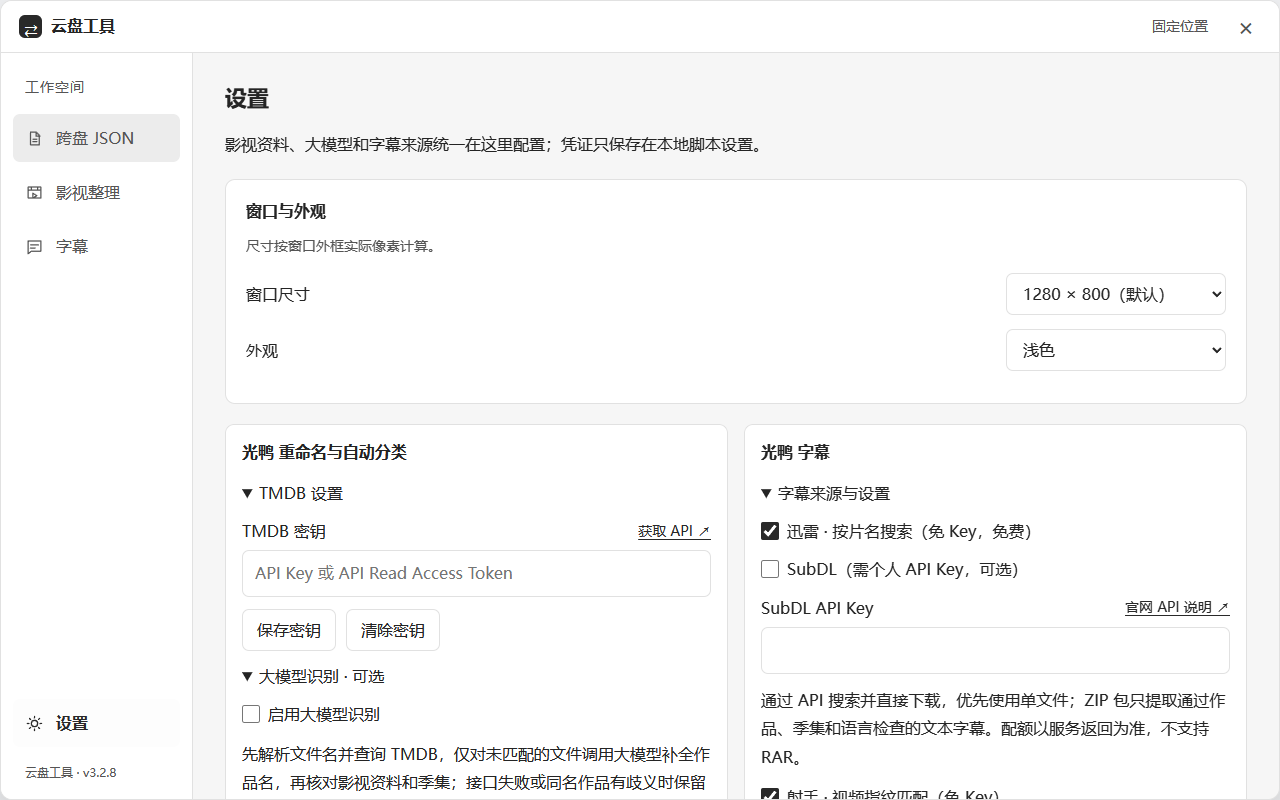
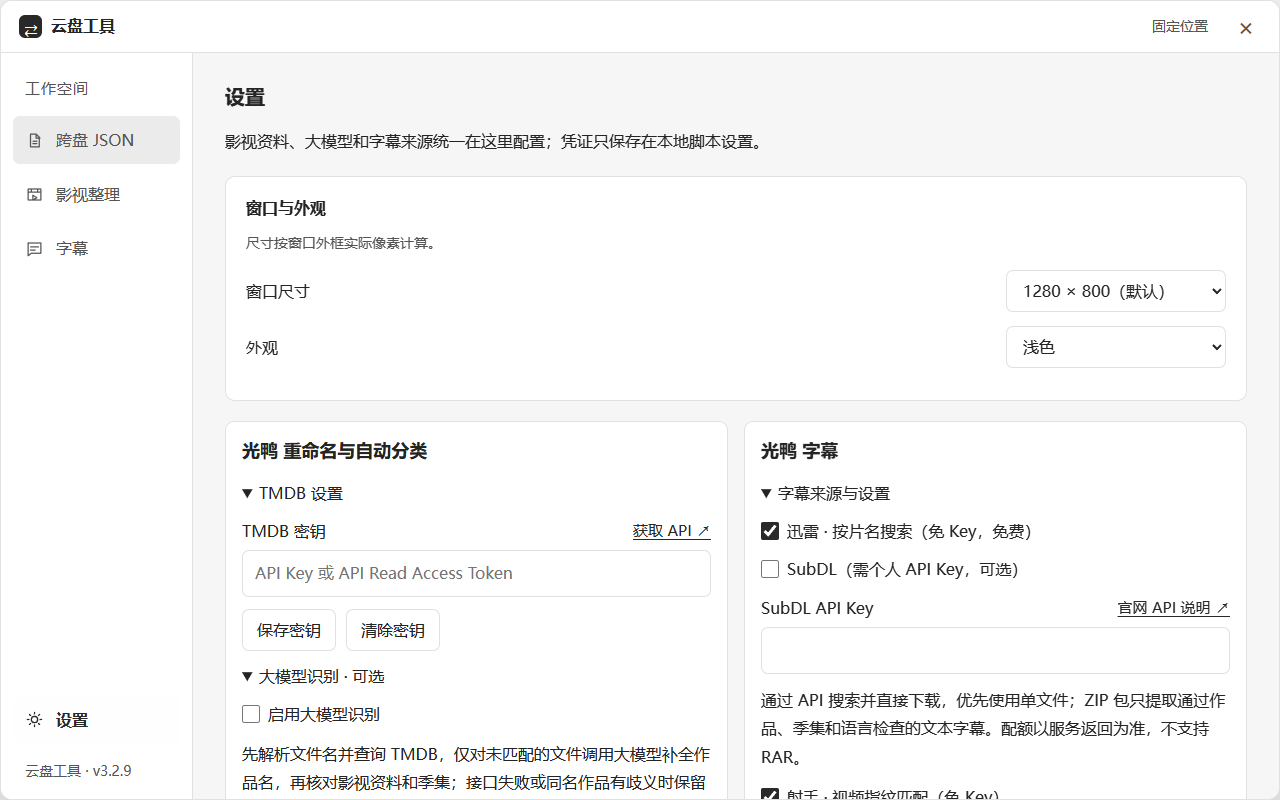
Balance workspace visual hierarchy

diff --git a/cloud-media-organizer-v3.user.js b/cloud-media-organizer-v3.user.js
@@ -1,7 +1,7 @@
 // ==UserScript==
 // @name         云盘媒体整理工具 v3.0（重构版）
 // @namespace    local.cloud-media-organizer
-// @version      3.2.8
+// @version      3.2.9
 // @description  百度/123/光鸭跨盘清单，123/光鸭影视整理、字幕搜索与核验上传
 // @match        https://pan.baidu.com/*
 // @match        https://yun.baidu.com/*
@@ -40,7 +40,7 @@
 (() => {
     'use strict';
 
-    const VERSION = '3.2.8';
+    const VERSION = '3.2.9';
     let jsonTaskStopped = false;
     const page = typeof unsafeWindow === 'undefined' ? window : unsafeWindow;
     const nativeFetch = page.fetch.bind(page);
@@ -276,7 +276,7 @@
     }
 
     function saveJsonFile(value, filename, report) {
-        try { normalizeFiles(JSON.parse(value)); }
+        try { normalizeFiles(JSONtparse(value)); }
         catch (_) { report('保存失败：文本框不是有效的跨盘 JSON 清单，请先导出文件清单'); return; }
         const url = URL.createObjectURL(new Blob([value], { type: 'application/json;charset=utf-8' }));
         report('正在保存 JSON 清单…');
@@ -426,7 +426,7 @@
 button{cursor:pointer;border:1px solid var(--border);border-radius:7px;padding:8px 14px;background:var(--surface);line-height:1.5;transition:background .15s,border-color .15s}
 button:hover:not(:disabled){background:var(--tint);border-color:var(--accent)}button:disabled{opacity:.55;cursor:not-allowed}
 button:focus-visible,input:focus-visible,select:focus-visible,textarea:focus-visible,summary:focus-visible{outline:2px solid var(--accent);outline-offset:2px}
-a{color:var(--accent);text-underline-offset:3px}h3,h4,p{overflow-wrap:anywhere}h3{margin:0 0 16px;font-size:22px;line-height:1.4}h4{margin:0;font-size:16px;font-weight:600}p{margin:10px 0;line-height:1.8}
+a{color:var(--accent);text-underline-offset:3px}h3,h4,p{overflow-wrap:anywhere}h3{margin:0 0 16px;font-size:20px;line-height:1.4}h4{margin:0;font-size:16px;font-weight:600}p{margin:10px 0;line-height:1.8}
 input,select,textarea{width:100%;border:1px solid var(--border);border-radius:7px;background:var(--field);padding:9px 12px;margin-top:6px;min-width:0}
 textarea{height:180px;resize:vertical;font:14px/1.7 Consolas,"Microsoft YaHei",monospace}label{display:block;margin:12px 0}
 label:has(>input[type=checkbox]){display:flex;align-items:flex-start;gap:8px}input[type=checkbox]{width:18px!important;height:18px;flex:0 0 auto;min-height:0;padding:0;margin:4px 0 0;accent-color:var(--accent)}
@@ -437,49 +437,48 @@ summary{cursor:pointer;overflow-wrap:anywhere}details[open]>summary{margin-botto
 .workspace-header p{display:none}.workspace-header.dragging{cursor:grabbing}.workspace-header.pinned{cursor:default}.workspace-window-actions{display:flex;align-items:center;gap:12px}
 #pinWorkspace,#closeWorkspace{background:transparent;border-color:transparent;color:var(--muted);padding:5px 10px;font-size:14px}#pinWorkspace[aria-pressed=true]{color:var(--accent);background:var(--tint)}#closeWorkspace{width:30px;height:30px;padding:0;font-size:24px;line-height:1}
 .workspace-frame{display:flex;flex:1;min-height:0;min-width:0}.workspace-navigation{width:192px;flex-shrink:0;display:flex;flex-direction:column;background:var(--surface);padding:22px 12px 16px;border-right:1px solid var(--border)}
-.nav-caption{margin:0 12px 14px;font-size:14px;color:var(--muted);letter-spacing:1px}.workspace-tabs{display:flex;flex-direction:column;gap:6px}
+.nav-caption{margin:0 12px 14px;font-size:15px;color:var(--muted);letter-spacing:1px}.workspace-tabs{display:flex;flex-direction:column;gap:6px}
 .workspace-tabs button,#settingsWorkspace{position:relative;display:flex;align-items:center;gap:12px;width:100%;padding:12px;text-align:left;border:0;background:transparent;color:var(--muted);font-size:16px;border-radius:7px}
 .workspace-tabs svg,#settingsWorkspace svg{width:19px;height:19px;flex-shrink:0;stroke-linecap:round;stroke-linejoin:round}
 .workspace-tabs button[aria-selected=true],#settingsWorkspace[aria-pressed=true]{background:var(--tint);color:var(--accent);font-weight:600}
 .workspace-tabs button[aria-selected=true]::before{content:'';position:absolute;left:0;top:14px;bottom:14px;width:3px;border-radius:3px;background:var(--accent)}
-.nav-footer{margin-top:auto}.nav-footer small{display:block;margin:16px 12px 0;font-size:12px;color:var(--muted)}
+.nav-footer{margin-top:auto}.nav-footer small{display:block;margin:16px 12px 0;font-size:14px;color:var(--muted)}
 .workspace-body{flex:1;min-width:0;min-height:0;display:flex}.tool-pane{width:100%;min-width:0;overflow:auto;overscroll-behavior:contain;padding:30px 32px 18px}
-.tool-pane[role=tabpanel]{display:flex;flex-direction:column}.tool-intro,.tool-commandbar,.tool-statusbar{flex-shrink:0}.tool-intro h3{display:flex;align-items:center;gap:12px;font-size:26px;margin:0;line-height:1.4;letter-spacing:.3px}.tool-intro p{font-size:16px;color:var(--muted);margin:8px 0 0}
-.tool-context{font-size:14px;line-height:28px;padding:0 8px;border-radius:5px;background:var(--tint);color:var(--accent);font-weight:400;letter-spacing:0}
+.tool-pane[role=tabpanel]{display:flex;flex-direction:column}.tool-intro,.tool-commandbar,.tool-statusbar{flex-shrink:0}.tool-intro h3{display:flex;align-items:center;gap:12px;font-size:21px;margin:0;line-height:1.4;letter-spacing:0}.tool-intro p{font-size:16px;color:var(--muted);margin:8px 0 0}
+.tool-context{font-size:15px;line-height:28px;padding:0 8px;border-radius:5px;background:var(--tint);color:var(--accent);font-weight:400;letter-spacing:0}
 .tool-commandbar{display:flex;align-items:center;flex-wrap:wrap;gap:12px;margin:22px 0 24px}.panel-actions{display:flex;flex-wrap:wrap;gap:10px;margin:12px 0}
 .tool-commandbar .panel-actions{margin:0;gap:10px}.tool-commandbar button{padding:9px 17px;min-height:38px}
-#generate,#exportManifest,#scanMedia,#recheckSubtitles,#fillSubtitles,#runMedia{background:var(--accent);border-color:transparent;color:var(--button-text)}
-#transfer,#start{background:var(--tint);border-color:transparent;color:var(--accent)}#chooseManifest,#chooseJsonFile{border-color:transparent;background:transparent;color:var(--muted)}
+#generate,#exportManifest,#scanMedia,#recheckSubtitles,#fillSubtitles,#runMedia,#transfer,#start,#chooseManifest,#chooseJsonFile{background:var(--surface);border:1px solid var(--border);color:var(--text);font-weight:500}
 .tool-import-options{margin-left:auto;max-width:320px;color:var(--muted);font-size:14px}.tool-import-options .export-options,.tool-import-options label{margin:0}.panel-actions:empty,.tool-import-options:not(:has(input,select,button)){display:none}
-.tool-layout{flex:1;min-width:0;min-height:auto}.tool-main{min-width:0}.tool-list-heading{display:flex;align-items:center;justify-content:space-between;gap:16px;min-height:32px;margin-bottom:12px}
+.tool-layout{flex:1;min-width:0;min-height:auto}.tool-main{min-width:0}.tool-list-heading{display:flex;align-items:center;justify-content:space-between;gap:16px;min-height:34px;margin-bottom:12px}
 .tool-list-heading label{display:flex;align-items:center;gap:8px;margin:0;font-size:14px;color:var(--muted)}.tool-list-heading select{width:auto;max-width:210px;margin:0;font-size:14px;padding:6px 10px}
-.editor-actions{display:flex;gap:8px}.editor-actions button{background:transparent;color:var(--muted);border-color:transparent;padding:4px 9px;font-size:14px;min-height:30px}
+.tool-list-heading h4{font-size:18px}.editor-actions{display:flex;gap:8px}.editor-actions button{background:var(--surface);color:var(--text);border-color:var(--border);padding:4px 9px;font-size:15px;min-height:30px}
 #jsonPane .tool-main{height:100%;display:flex;flex-direction:column;min-height:280px}#jsonPane .tool-main>:not(.json-editor){flex-shrink:0}
 .json-editor{position:relative;display:flex;flex:1;min-height:220px;border:1px solid var(--border);border-radius:10px;background:var(--surface);overflow:hidden;isolation:isolate}
 .json-editor:focus-within{border-color:var(--accent);box-shadow:0 0 0 3px var(--tint)}.json-editor>#json{width:100%;height:100%;flex:1;min-height:0;max-height:none;margin:0;border:0;border-radius:0;background:transparent;resize:none;outline:none;padding:20px;font:16px/1.8 Consolas,"Microsoft YaHei",monospace}
 .json-editor>#json::placeholder{color:transparent}.json-editor-empty{position:absolute;inset:0;display:none;flex-direction:column;align-items:center;justify-content:center;pointer-events:none;padding:24px;text-align:center;color:var(--muted)}
-.json-editor:has(#json:placeholder-shown:not(:focus))>.json-editor-empty{display:flex}.json-editor-empty svg{width:58px;height:58px;padding:10px;border-radius:14px;background:var(--tint);color:var(--accent);margin-bottom:20px}.json-editor-empty strong{color:var(--text);font-size:20px;font-weight:600}.json-editor-empty p{font-size:16px;margin:10px 0 22px}.json-editor-empty span{font-size:14px}
+.json-editor:has(#json:placeholder-shown:not(:focus))>.json-editor-empty{display:flex}.json-editor-empty svg{width:44px;height:44px;padding:8px;border-radius:12px;background:var(--tint);color:var(--muted);margin-bottom:12px}.json-editor-empty strong{color:var(--text);font-size:17px;font-weight:600}.json-editor-empty p{font-size:16px;margin:6px 0 12px}.json-editor-empty span{font-size:14px}
 #jsonPane .tool-main:has(#syncPreview:not([hidden]))>.json-editor{flex:0 0 140px;min-height:140px}#jsonPane:has(#syncPreview:not([hidden])) .tool-layout{flex:none}#jsonPane .tool-main:has(#syncPreview:not([hidden])){height:auto}
-.tool-overview{display:grid;grid-template-columns:repeat(2,minmax(0,1fr));gap:12px}.tool-overview>:not([hidden]):not(:empty){background:var(--surface);border:1px solid var(--border);border-radius:8px;padding:12px 14px;margin:0 0 16px;line-height:1.8;font-size:14px}.tool-overview:has(>:only-child)>:not(:empty){grid-column:1/-1}
-.tool-list-hint{color:var(--muted);font-size:14px;margin:0 0 14px}.tool-results{display:grid;grid-template-columns:repeat(2,minmax(0,1fr));gap:14px;align-items:start}
+.tool-overview{display:grid;grid-template-columns:repeat(2,minmax(0,1fr));gap:12px}.tool-overview>:not([hidden]):not(:empty){background:var(--surface);border:1px solid var(--border);border-radius:8px;padding:12px 14px;margin:0 0 16px;line-height:1.8;font-size:15px}.tool-overview:has(>:only-child)>:not(:empty){grid-column:1/-1}
+.tool-list-hint{color:var(--muted);font-size:15px;margin:0 0 14px}.tool-results{display:grid;grid-template-columns:repeat(2,minmax(0,1fr));gap:14px;align-items:start}
 .sync-item{background:var(--surface);border:1px solid var(--border);border-radius:9px;padding:16px;margin:12px 0;min-width:0}.tool-results>.sync-item{margin:0;font-size:16px}.tool-results>details[open]{grid-column:1/-1}.tool-results>.sync-item:hover{border-color:var(--accent)}.tool-results summary{font-size:16px;line-height:1.8}.outside-page{display:none!important}
 .sync-location{display:grid;grid-template-columns:6.5em minmax(0,1fr);gap:8px;line-height:1.7}.sync-location span:last-child{white-space:pre-wrap;overflow-wrap:anywhere}.sync-location span:first-child{color:var(--muted)}
 .sync-actions{display:flex;flex-wrap:wrap;gap:10px;margin-top:14px;padding-top:12px;border-top:1px solid var(--border)}
 .tool-pagination{display:flex;align-items:center;justify-content:center;gap:16px;margin:18px 0 0;font-size:14px;color:var(--muted)}.tool-pagination button{padding:5px 10px;font-size:14px}
-#subtitleEmpty,.media-empty{padding:64px 24px;margin:0;text-align:center;border:1px dashed var(--border);border-radius:10px;color:var(--muted);background:var(--surface)}
+#subtitleEmpty,.media-empty{padding:36px 24px;margin:0;text-align:center;border:1px dashed var(--border);border-radius:10px;color:var(--muted);background:var(--surface)}
 .tool-main:has(#mediaRows:not(:empty))>.media-empty,.tool-main:has(#mediaPreview:not(:empty))>.media-empty{display:none}.tool-preview{margin-top:14px}.tool-preview:not(:has(#mediaPreview:not(:empty))){display:none}
 #mediaPreview:not(:empty),#emptyPreview:not(:empty){max-height:none!important;overflow:visible!important;padding:12px 0;margin:12px 0;font-size:14px}
-.tool-statusbar{display:flex;align-items:flex-start;gap:20px;flex-wrap:wrap;margin-top:20px;padding-top:12px;border-top:1px solid var(--border);font-size:14px;color:var(--muted)}
-.tool-status-text{flex:1;min-width:180px}.tool-status-text p{margin:0;line-height:1.9;font-size:14px}.tool-status-text p:empty{display:none}.tool-status-text progress{accent-color:var(--accent);height:6px!important;margin:6px 0!important}.tool-status-text label{margin:0;font-size:14px}.tool-status-text #mediaMeter{margin:0}
-.tool-utilities{display:flex;align-items:flex-start;gap:16px;flex-wrap:wrap;margin-left:auto}.tool-utilities>.tool-card{padding:0;border:0;background:transparent;margin:0}.tool-utilities summary{padding:2px 0;font-size:14px;font-weight:500;color:var(--muted)}
+.tool-statusbar{display:flex;align-items:flex-start;gap:20px;flex-wrap:wrap;margin-top:20px;padding-top:12px;border-top:1px solid var(--border);font-size:15px;color:var(--muted)}
+.tool-status-text{flex:1;min-width:180px}.tool-status-text p{margin:0;line-height:1.9;font-size:15px}.tool-status-text p:empty{display:none}.tool-status-text progress{accent-color:var(--accent);height:6px!important;margin:6px 0!important}.tool-status-text label{margin:0;font-size:15px}.tool-status-text #mediaMeter{margin:0}
+.tool-utilities{display:flex;align-items:flex-start;gap:16px;flex-wrap:wrap;margin-left:auto}.tool-utilities>.tool-card{padding:0;border:0;background:transparent;margin:0}.tool-utilities summary{padding:2px 0;font-size:15px;font-weight:500;color:var(--muted)}
 .tool-statusbar:has(.tool-utilities>details[open]){display:block}.tool-utilities:has(>details[open]){display:grid;grid-template-columns:repeat(3,minmax(0,1fr));margin-top:10px}.tool-utilities>details[open]{grid-column:1/-1;color:var(--text);min-width:0}
 #log{white-space:pre-wrap;overflow-wrap:anywhere;font:14px/1.7 Consolas,"Microsoft YaHei",monospace;max-height:180px;overflow:auto}#log:empty{display:none}#log>div+div{margin-top:6px}#subtitleLog{height:180px;min-height:100px;max-height:300px}
-.sync-preview{background:var(--surface);border:1px solid var(--border);border-radius:8px;padding:14px;margin-bottom:14px}.sync-preview h4{margin:0 0 8px}.sync-preview p{margin:6px 0}#syncList{overflow-wrap:anywhere;font-size:14px}#syncDestination{font-weight:600}
-.export-options{display:flex;flex-wrap:wrap;gap:12px;align-items:center;margin:12px 0}.export-options input{width:auto}.export-options button{font-size:14px;padding:7px 12px}.credential-head{display:flex;justify-content:space-between;align-items:center;gap:12px}.credential-head a{font-size:14px;flex-shrink:0}
-.source-result{margin:12px 0;padding:12px;border:1px solid var(--border);border-radius:8px}.source-result button{margin:8px 8px 0 0;font-size:14px}
+.sync-preview{background:var(--surface);border:1px solid var(--border);border-radius:8px;padding:14px;margin-bottom:14px}.sync-preview h4{margin:0 0 8px}.sync-preview p{margin:6px 0}#syncList{overflow-wrap:anywhere;font-size:15px}#syncDestination{font-weight:600}
+.export-options{display:flex;flex-wrap:wrap;gap:12px;align-items:center;margin:12px 0}.export-options input{width:auto}.export-options button{font-size:14px;padding:7px 12px}.credential-head{display:flex;justify-content:space-between;align-items:center;gap:12px}.credential-head a{font-size:15px;flex-shrink:0}
+.source-result{margin:12px 0;padding:12px;border:1px solid var(--border);border-radius:8px}.source-result button{margin:8px 8px 0 0;font-size:16px}
 .workspace-appearance{background:var(--surface);border:1px solid var(--border);border-radius:10px;padding:18px 20px;margin:20px 0}.workspace-appearance>p{color:var(--muted);font-size:14px}
 .theme-row{display:flex;align-items:center;justify-content:space-between;gap:16px;margin:14px 0}.theme-row select{width:220px;margin:0}
-#settingsSections{display:grid;grid-template-columns:repeat(2,minmax(0,1fr));gap:16px;align-items:start}#settingsSections>.sync-item{margin:0}#settingsSections h3{font-size:16px}#backToTools{margin-top:18px}
+#settingsSections{display:grid;grid-template-columns:repeat(2,minmax(0,1fr));gap:16px;align-items:start}#settingsSections>.sync-item{margin:0}#settingsSections legend{font-size:18px;font-weight:600}#settingsSections h3{font-size:18px;font-weight:600}#backToTools{margin-top:18px}
 #toggle{display:grid;place-items:center;width:50px;height:50px;padding:0;border-radius:15px;background:var(--surface);box-shadow:0 5px 20px #0003}#toggle svg{width:24px;height:24px;pointer-events:none}
 @container(max-width:1050px){.workspace-navigation{width:152px;padding:16px 9px}.tool-pane{padding:20px 20px 14px}.tool-intro h3{font-size:20px}.tool-intro p{font-size:14px}.tool-commandbar{margin:16px 0 18px;gap:8px}.tool-commandbar button{padding:8px 12px;font-size:14px}.tool-commandbar .panel-actions{gap:6px}.tool-import-options{max-width:240px;font-size:14px}.tool-statusbar{gap:12px;margin-top:14px}.tool-utilities{gap:10px}.tool-overview>:not([hidden]):not(:empty){margin-bottom:10px;padding:10px}.json-editor{min-height:160px}#jsonPane .tool-main{min-height:220px}.json-editor-empty svg{width:44px;height:44px;margin-bottom:10px}.json-editor-empty p{margin:6px 0 12px}.tool-results{gap:10px}.tool-results>.sync-item{padding:12px}}
 @container(max-width:760px){.workspace-frame{flex-direction:column}.workspace-navigation{width:auto;padding:8px 12px;border-right:0;border-bottom:1px solid var(--border);flex-direction:row;align-items:center;gap:8px}.nav-caption,.nav-footer small{display:none}.workspace-tabs{flex-direction:row;flex:1;gap:4px}.workspace-tabs button{justify-content:center;gap:5px;padding:8px 6px;font-size:14px}.workspace-tabs button svg{display:none}.workspace-tabs button[aria-selected=true]::before{display:none}.nav-footer{margin:0}#settingsWorkspace{width:auto;font-size:14px;gap:5px;padding:8px}.workspace-body{min-height:0}.tool-pane{padding:18px 14px}.tool-results,.tool-overview,#settingsSections{grid-template-columns:minmax(0,1fr)}.tool-intro h3{font-size:18px;flex-wrap:wrap}.tool-list-heading{flex-wrap:wrap;gap:8px}.tool-import-options{margin:0;max-width:none}.tool-statusbar{display:block}.tool-utilities{margin-top:10px}.theme-row{flex-wrap:wrap}.theme-row select{max-width:100%}.sync-location{grid-template-columns:1fr;gap:2px}.json-editor-empty{padding:12px}.json-editor-empty strong{font-size:15px}.json-editor-empty p{font-size:14px}#subtitleEmpty,.media-empty{padding:36px 16px}.tool-utilities:has(>details[open]){grid-template-columns:1fr}}

diff --git a/src/panel.js b/src/panel.js
@@ -1,5 +1,5 @@
     function saveJsonFile(value, filename, report) {
-        try { normalizeFiles(JSON.parse(value)); }
+        try { normalizeFiles(JSONtparse(value)); }
         catch (_) { report('保存失败：文本框不是有效的跨盘 JSON 清单，请先导出文件清单'); return; }
         const url = URL.createObjectURL(new Blob([value], { type: 'application/json;charset=utf-8' }));
         report('正在保存 JSON 清单…');
@@ -149,7 +149,7 @@
 button{cursor:pointer;border:1px solid var(--border);border-radius:7px;padding:8px 14px;background:var(--surface);line-height:1.5;transition:background .15s,border-color .15s}
 button:hover:not(:disabled){background:var(--tint);border-color:var(--accent)}button:disabled{opacity:.55;cursor:not-allowed}
 button:focus-visible,input:focus-visible,select:focus-visible,textarea:focus-visible,summary:focus-visible{outline:2px solid var(--accent);outline-offset:2px}
-a{color:var(--accent);text-underline-offset:3px}h3,h4,p{overflow-wrap:anywhere}h3{margin:0 0 16px;font-size:22px;line-height:1.4}h4{margin:0;font-size:16px;font-weight:600}p{margin:10px 0;line-height:1.8}
+a{color:var(--accent);text-underline-offset:3px}h3,h4,p{overflow-wrap:anywhere}h3{margin:0 0 16px;font-size:20px;line-height:1.4}h4{margin:0;font-size:16px;font-weight:600}p{margin:10px 0;line-height:1.8}
 input,select,textarea{width:100%;border:1px solid var(--border);border-radius:7px;background:var(--field);padding:9px 12px;margin-top:6px;min-width:0}
 textarea{height:180px;resize:vertical;font:14px/1.7 Consolas,"Microsoft YaHei",monospace}label{display:block;margin:12px 0}
 label:has(>input[type=checkbox]){display:flex;align-items:flex-start;gap:8px}input[type=checkbox]{width:18px!important;height:18px;flex:0 0 auto;min-height:0;padding:0;margin:4px 0 0;accent-color:var(--accent)}
@@ -160,49 +160,48 @@ summary{cursor:pointer;overflow-wrap:anywhere}details[open]>summary{margin-botto
 .workspace-header p{display:none}.workspace-header.dragging{cursor:grabbing}.workspace-header.pinned{cursor:default}.workspace-window-actions{display:flex;align-items:center;gap:12px}
 #pinWorkspace,#closeWorkspace{background:transparent;border-color:transparent;color:var(--muted);padding:5px 10px;font-size:14px}#pinWorkspace[aria-pressed=true]{color:var(--accent);background:var(--tint)}#closeWorkspace{width:30px;height:30px;padding:0;font-size:24px;line-height:1}
 .workspace-frame{display:flex;flex:1;min-height:0;min-width:0}.workspace-navigation{width:192px;flex-shrink:0;display:flex;flex-direction:column;background:var(--surface);padding:22px 12px 16px;border-right:1px solid var(--border)}
-.nav-caption{margin:0 12px 14px;font-size:14px;color:var(--muted);letter-spacing:1px}.workspace-tabs{display:flex;flex-direction:column;gap:6px}
+.nav-caption{margin:0 12px 14px;font-size:15px;color:var(--muted);letter-spacing:1px}.workspace-tabs{display:flex;flex-direction:column;gap:6px}
 .workspace-tabs button,#settingsWorkspace{position:relative;display:flex;align-items:center;gap:12px;width:100%;padding:12px;text-align:left;border:0;background:transparent;color:var(--muted);font-size:16px;border-radius:7px}
 .workspace-tabs svg,#settingsWorkspace svg{width:19px;height:19px;flex-shrink:0;stroke-linecap:round;stroke-linejoin:round}
 .workspace-tabs button[aria-selected=true],#settingsWorkspace[aria-pressed=true]{background:var(--tint);color:var(--accent);font-weight:600}
 .workspace-tabs button[aria-selected=true]::before{content:'';position:absolute;left:0;top:14px;bottom:14px;width:3px;border-radius:3px;background:var(--accent)}
-.nav-footer{margin-top:auto}.nav-footer small{display:block;margin:16px 12px 0;font-size:12px;color:var(--muted)}
+.nav-footer{margin-top:auto}.nav-footer small{display:block;margin:16px 12px 0;font-size:14px;color:var(--muted)}
 .workspace-body{flex:1;min-width:0;min-height:0;display:flex}.tool-pane{width:100%;min-width:0;overflow:auto;overscroll-behavior:contain;padding:30px 32px 18px}
-.tool-pane[role=tabpanel]{display:flex;flex-direction:column}.tool-intro,.tool-commandbar,.tool-statusbar{flex-shrink:0}.tool-intro h3{display:flex;align-items:center;gap:12px;font-size:26px;margin:0;line-height:1.4;letter-spacing:.3px}.tool-intro p{font-size:16px;color:var(--muted);margin:8px 0 0}
-.tool-context{font-size:14px;line-height:28px;padding:0 8px;border-radius:5px;background:var(--tint);color:var(--accent);font-weight:400;letter-spacing:0}
+.tool-pane[role=tabpanel]{display:flex;flex-direction:column}.tool-intro,.tool-commandbar,.tool-statusbar{flex-shrink:0}.tool-intro h3{display:flex;align-items:center;gap:12px;font-size:21px;margin:0;line-height:1.4;letter-spacing:0}.tool-intro p{font-size:16px;color:var(--muted);margin:8px 0 0}
+.tool-context{font-size:15px;line-height:28px;padding:0 8px;border-radius:5px;background:var(--tint);color:var(--accent);font-weight:400;letter-spacing:0}
 .tool-commandbar{display:flex;align-items:center;flex-wrap:wrap;gap:12px;margin:22px 0 24px}.panel-actions{display:flex;flex-wrap:wrap;gap:10px;margin:12px 0}
 .tool-commandbar .panel-actions{margin:0;gap:10px}.tool-commandbar button{padding:9px 17px;min-height:38px}
-#generate,#exportManifest,#scanMedia,#recheckSubtitles,#fillSubtitles,#runMedia{background:var(--accent);border-color:transparent;color:var(--button-text)}
-#transfer,#start{background:var(--tint);border-color:transparent;color:var(--accent)}#chooseManifest,#chooseJsonFile{border-color:transparent;background:transparent;color:var(--muted)}
+#generate,#exportManifest,#scanMedia,#recheckSubtitles,#fillSubtitles,#runMedia,#transfer,#start,#chooseManifest,#chooseJsonFile{background:var(--surface);border:1px solid var(--border);color:var(--text);font-weight:500}
 .tool-import-options{margin-left:auto;max-width:320px;color:var(--muted);font-size:14px}.tool-import-options .export-options,.tool-import-options label{margin:0}.panel-actions:empty,.tool-import-options:not(:has(input,select,button)){display:none}
-.tool-layout{flex:1;min-width:0;min-height:auto}.tool-main{min-width:0}.tool-list-heading{display:flex;align-items:center;justify-content:space-between;gap:16px;min-height:32px;margin-bottom:12px}
+.tool-layout{flex:1;min-width:0;min-height:auto}.tool-main{min-width:0}.tool-list-heading{display:flex;align-items:center;justify-content:space-between;gap:16px;min-height:34px;margin-bottom:12px}
 .tool-list-heading label{display:flex;align-items:center;gap:8px;margin:0;font-size:14px;color:var(--muted)}.tool-list-heading select{width:auto;max-width:210px;margin:0;font-size:14px;padding:6px 10px}
-.editor-actions{display:flex;gap:8px}.editor-actions button{background:transparent;color:var(--muted);border-color:transparent;padding:4px 9px;font-size:14px;min-height:30px}
+.tool-list-heading h4{font-size:18px}.editor-actions{display:flex;gap:8px}.editor-actions button{background:var(--surface);color:var(--text);border-color:var(--border);padding:4px 9px;font-size:15px;min-height:30px}
 #jsonPane .tool-main{height:100%;display:flex;flex-direction:column;min-height:280px}#jsonPane .tool-main>:not(.json-editor){flex-shrink:0}
 .json-editor{position:relative;display:flex;flex:1;min-height:220px;border:1px solid var(--border);border-radius:10px;background:var(--surface);overflow:hidden;isolation:isolate}
 .json-editor:focus-within{border-color:var(--accent);box-shadow:0 0 0 3px var(--tint)}.json-editor>#json{width:100%;height:100%;flex:1;min-height:0;max-height:none;margin:0;border:0;border-radius:0;background:transparent;resize:none;outline:none;padding:20px;font:16px/1.8 Consolas,"Microsoft YaHei",monospace}
 .json-editor>#json::placeholder{color:transparent}.json-editor-empty{position:absolute;inset:0;display:none;flex-direction:column;align-items:center;justify-content:center;pointer-events:none;padding:24px;text-align:center;color:var(--muted)}
-.json-editor:has(#json:placeholder-shown:not(:focus))>.json-editor-empty{display:flex}.json-editor-empty svg{width:58px;height:58px;padding:10px;border-radius:14px;background:var(--tint);color:var(--accent);margin-bottom:20px}.json-editor-empty strong{color:var(--text);font-size:20px;font-weight:600}.json-editor-empty p{font-size:16px;margin:10px 0 22px}.json-editor-empty span{font-size:14px}
+.json-editor:has(#json:placeholder-shown:not(:focus))>.json-editor-empty{display:flex}.json-editor-empty svg{width:44px;height:44px;padding:8px;border-radius:12px;background:var(--tint);color:var(--muted);margin-bottom:12px}.json-editor-empty strong{color:var(--text);font-size:17px;font-weight:600}.json-editor-empty p{font-size:16px;margin:6px 0 12px}.json-editor-empty span{font-size:14px}
 #jsonPane .tool-main:has(#syncPreview:not([hidden]))>.json-editor{flex:0 0 140px;min-height:140px}#jsonPane:has(#syncPreview:not([hidden])) .tool-layout{flex:none}#jsonPane .tool-main:has(#syncPreview:not([hidden])){height:auto}
-.tool-overview{display:grid;grid-template-columns:repeat(2,minmax(0,1fr));gap:12px}.tool-overview>:not([hidden]):not(:empty){background:var(--surface);border:1px solid var(--border);border-radius:8px;padding:12px 14px;margin:0 0 16px;line-height:1.8;font-size:14px}.tool-overview:has(>:only-child)>:not(:empty){grid-column:1/-1}
-.tool-list-hint{color:var(--muted);font-size:14px;margin:0 0 14px}.tool-results{display:grid;grid-template-columns:repeat(2,minmax(0,1fr));gap:14px;align-items:start}
+.tool-overview{display:grid;grid-template-columns:repeat(2,minmax(0,1fr));gap:12px}.tool-overview>:not([hidden]):not(:empty){background:var(--surface);border:1px solid var(--border);border-radius:8px;padding:12px 14px;margin:0 0 16px;line-height:1.8;font-size:15px}.tool-overview:has(>:only-child)>:not(:empty){grid-column:1/-1}
+.tool-list-hint{color:var(--muted);font-size:15px;margin:0 0 14px}.tool-results{display:grid;grid-template-columns:repeat(2,minmax(0,1fr));gap:14px;align-items:start}
 .sync-item{background:var(--surface);border:1px solid var(--border);border-radius:9px;padding:16px;margin:12px 0;min-width:0}.tool-results>.sync-item{margin:0;font-size:16px}.tool-results>details[open]{grid-column:1/-1}.tool-results>.sync-item:hover{border-color:var(--accent)}.tool-results summary{font-size:16px;line-height:1.8}.outside-page{display:none!important}
 .sync-location{display:grid;grid-template-columns:6.5em minmax(0,1fr);gap:8px;line-height:1.7}.sync-location span:last-child{white-space:pre-wrap;overflow-wrap:anywhere}.sync-location span:first-child{color:var(--muted)}
 .sync-actions{display:flex;flex-wrap:wrap;gap:10px;margin-top:14px;padding-top:12px;border-top:1px solid var(--border)}
 .tool-pagination{display:flex;align-items:center;justify-content:center;gap:16px;margin:18px 0 0;font-size:14px;color:var(--muted)}.tool-pagination button{padding:5px 10px;font-size:14px}
-#subtitleEmpty,.media-empty{padding:64px 24px;margin:0;text-align:center;border:1px dashed var(--border);border-radius:10px;color:var(--muted);background:var(--surface)}
+#subtitleEmpty,.media-empty{padding:36px 24px;margin:0;text-align:center;border:1px dashed var(--border);border-radius:10px;color:var(--muted);background:var(--surface)}
 .tool-main:has(#mediaRows:not(:empty))>.media-empty,.tool-main:has(#mediaPreview:not(:empty))>.media-empty{display:none}.tool-preview{margin-top:14px}.tool-preview:not(:has(#mediaPreview:not(:empty))){display:none}
 #mediaPreview:not(:empty),#emptyPreview:not(:empty){max-height:none!important;overflow:visible!important;padding:12px 0;margin:12px 0;font-size:14px}
-.tool-statusbar{display:flex;align-items:flex-start;gap:20px;flex-wrap:wrap;margin-top:20px;padding-top:12px;border-top:1px solid var(--border);font-size:14px;color:var(--muted)}
-.tool-status-text{flex:1;min-width:180px}.tool-status-text p{margin:0;line-height:1.9;font-size:14px}.tool-status-text p:empty{display:none}.tool-status-text progress{accent-color:var(--accent);height:6px!important;margin:6px 0!important}.tool-status-text label{margin:0;font-size:14px}.tool-status-text #mediaMeter{margin:0}
-.tool-utilities{display:flex;align-items:flex-start;gap:16px;flex-wrap:wrap;margin-left:auto}.tool-utilities>.tool-card{padding:0;border:0;background:transparent;margin:0}.tool-utilities summary{padding:2px 0;font-size:14px;font-weight:500;color:var(--muted)}
+.tool-statusbar{display:flex;align-items:flex-start;gap:20px;flex-wrap:wrap;margin-top:20px;padding-top:12px;border-top:1px solid var(--border);font-size:15px;color:var(--muted)}
+.tool-status-text{flex:1;min-width:180px}.tool-status-text p{margin:0;line-height:1.9;font-size:15px}.tool-status-text p:empty{display:none}.tool-status-text progress{accent-color:var(--accent);height:6px!important;margin:6px 0!important}.tool-status-text label{margin:0;font-size:15px}.tool-status-text #mediaMeter{margin:0}
+.tool-utilities{display:flex;align-items:flex-start;gap:16px;flex-wrap:wrap;margin-left:auto}.tool-utilities>.tool-card{padding:0;border:0;background:transparent;margin:0}.tool-utilities summary{padding:2px 0;font-size:15px;font-weight:500;color:var(--muted)}
 .tool-statusbar:has(.tool-utilities>details[open]){display:block}.tool-utilities:has(>details[open]){display:grid;grid-template-columns:repeat(3,minmax(0,1fr));margin-top:10px}.tool-utilities>details[open]{grid-column:1/-1;color:var(--text);min-width:0}
 #log{white-space:pre-wrap;overflow-wrap:anywhere;font:14px/1.7 Consolas,"Microsoft YaHei",monospace;max-height:180px;overflow:auto}#log:empty{display:none}#log>div+div{margin-top:6px}#subtitleLog{height:180px;min-height:100px;max-height:300px}
-.sync-preview{background:var(--surface);border:1px solid var(--border);border-radius:8px;padding:14px;margin-bottom:14px}.sync-preview h4{margin:0 0 8px}.sync-preview p{margin:6px 0}#syncList{overflow-wrap:anywhere;font-size:14px}#syncDestination{font-weight:600}
-.export-options{display:flex;flex-wrap:wrap;gap:12px;align-items:center;margin:12px 0}.export-options input{width:auto}.export-options button{font-size:14px;padding:7px 12px}.credential-head{display:flex;justify-content:space-between;align-items:center;gap:12px}.credential-head a{font-size:14px;flex-shrink:0}
-.source-result{margin:12px 0;padding:12px;border:1px solid var(--border);border-radius:8px}.source-result button{margin:8px 8px 0 0;font-size:14px}
+.sync-preview{background:var(--surface);border:1px solid var(--border);border-radius:8px;padding:14px;margin-bottom:14px}.sync-preview h4{margin:0 0 8px}.sync-preview p{margin:6px 0}#syncList{overflow-wrap:anywhere;font-size:15px}#syncDestination{font-weight:600}
+.export-options{display:flex;flex-wrap:wrap;gap:12px;align-items:center;margin:12px 0}.export-options input{width:auto}.export-options button{font-size:14px;padding:7px 12px}.credential-head{display:flex;justify-content:space-between;align-items:center;gap:12px}.credential-head a{font-size:15px;flex-shrink:0}
+.source-result{margin:12px 0;padding:12px;border:1px solid var(--border);border-radius:8px}.source-result button{margin:8px 8px 0 0;font-size:16px}
 .workspace-appearance{background:var(--surface);border:1px solid var(--border);border-radius:10px;padding:18px 20px;margin:20px 0}.workspace-appearance>p{color:var(--muted);font-size:14px}
 .theme-row{display:flex;align-items:center;justify-content:space-between;gap:16px;margin:14px 0}.theme-row select{width:220px;margin:0}
-#settingsSections{display:grid;grid-template-columns:repeat(2,minmax(0,1fr));gap:16px;align-items:start}#settingsSections>.sync-item{margin:0}#settingsSections h3{font-size:16px}#backToTools{margin-top:18px}
+#settingsSections{display:grid;grid-template-columns:repeat(2,minmax(0,1fr));gap:16px;align-items:start}#settingsSections>.sync-item{margin:0}#settingsSections legend{font-size:18px;font-weight:600}#settingsSections h3{font-size:18px;font-weight:600}#backToTools{margin-top:18px}
 #toggle{display:grid;place-items:center;width:50px;height:50px;padding:0;border-radius:15px;background:var(--surface);box-shadow:0 5px 20px #0003}#toggle svg{width:24px;height:24px;pointer-events:none}
 @container(max-width:1050px){.workspace-navigation{width:152px;padding:16px 9px}.tool-pane{padding:20px 20px 14px}.tool-intro h3{font-size:20px}.tool-intro p{font-size:14px}.tool-commandbar{margin:16px 0 18px;gap:8px}.tool-commandbar button{padding:8px 12px;font-size:14px}.tool-commandbar .panel-actions{gap:6px}.tool-import-options{max-width:240px;font-size:14px}.tool-statusbar{gap:12px;margin-top:14px}.tool-utilities{gap:10px}.tool-overview>:not([hidden]):not(:empty){margin-bottom:10px;padding:10px}.json-editor{min-height:160px}#jsonPane .tool-main{min-height:220px}.json-editor-empty svg{width:44px;height:44px;margin-bottom:10px}.json-editor-empty p{margin:6px 0 12px}.tool-results{gap:10px}.tool-results>.sync-item{padding:12px}}
 @container(max-width:760px){.workspace-frame{flex-direction:column}.workspace-navigation{width:auto;padding:8px 12px;border-right:0;border-bottom:1px solid var(--border);flex-direction:row;align-items:center;gap:8px}.nav-caption,.nav-footer small{display:none}.workspace-tabs{flex-direction:row;flex:1;gap:4px}.workspace-tabs button{justify-content:center;gap:5px;padding:8px 6px;font-size:14px}.workspace-tabs button svg{display:none}.workspace-tabs button[aria-selected=true]::before{display:none}.nav-footer{margin:0}#settingsWorkspace{width:auto;font-size:14px;gap:5px;padding:8px}.workspace-body{min-height:0}.tool-pane{padding:18px 14px}.tool-results,.tool-overview,#settingsSections{grid-template-columns:minmax(0,1fr)}.tool-intro h3{font-size:18px;flex-wrap:wrap}.tool-list-heading{flex-wrap:wrap;gap:8px}.tool-import-options{margin:0;max-width:none}.tool-statusbar{display:block}.tool-utilities{margin-top:10px}.theme-row{flex-wrap:wrap}.theme-row select{max-width:100%}.sync-location{grid-template-columns:1fr;gap:2px}.json-editor-empty{padding:12px}.json-editor-empty strong{font-size:15px}.json-editor-empty p{font-size:14px}#subtitleEmpty,.media-empty{padding:36px 16px}.tool-utilities:has(>details[open]){grid-template-columns:1fr}}

diff --git a/src/core.js b/src/core.js
@@ -1,4 +1,4 @@
-    const VERSION = '3.2.8';
+    const VERSION = '3.2.9';
     let jsonTaskStopped = false;
     const page = typeof unsafeWindow === 'undefined' ? window : unsafeWindow;
     const nativeFetch = page.fetch.bind(page);

diff --git a/README.md b/README.md
@@ -1,6 +1,6 @@
 # 云盘媒体整理工具
 
-当前版本 **3.2.8**。支持百度、123、光鸭网盘的 JSON 清单导入导出，以及 123、光鸭的影视整理和字幕补齐。
+当前版本 **3.2.9**。支持百度、123、光鸭网盘的 JSON 清单导入导出，以及 123、光鸭的影视整理和字幕补齐。
 
 [安装或更新脚本](https://raw.githubusercontent.com/Yanshov/cloud-media-organizer/main/cloud-media-organizer-v3.user.js) · [变更说明](CHANGELOG.md) · [开发与验证](docs/DEVELOPMENT.md)
 
@@ -8,7 +8,7 @@
 
 页面以 1280×800 为标准排布：左侧固定功能导航，右侧集中展示当前工作，目录、进度和日志入口放在底部状态栏。窗口尺寸与外观移入设置，版本显示在导航底部。JSON 编辑区自动填满剩余高度，空白时显示使用引导，下载和复制放在编辑区上方。960×600 保留紧凑布局，窄屏改用横向导航。影视与字幕列表每页 4 项，点击展开详情；分页只影响展示，批量任务仍处理全部符合条件的项目。日志、辅助操作和说明默认收起，常规概览尽量不滚动；长详情、设置和小窗口仍可滚动。
 
-深浅主题均使用黑白灰，通过明暗和字重区分主要操作与选中项。正文与主要按钮使用 16px，说明和状态文字至少 14px，提高灰色文字对比度。设置各项默认展开，仍可手动收起。[深色界面预览](docs/previews/workspace-dark.png) · [浅色界面预览](docs/previews/workspace-light.png)（实际面板截图，目录为示例数据）
+深浅主题均使用黑白灰，通过明暗和字重区分主要操作与选中项。影视整理、字幕和 JSON 使用一致的标题与文字层级，操作按钮采用相同的中性样式；提高说明文字对比度。设置各项默认展开，仍可手动收起。[深色界面预览](docs/previews/workspace-dark.png) · [浅色界面预览](docs/previews/workspace-light.png)（实际面板截图，目录为示例数据） · [影视整理界面](docs/previews/media.png) · [字幕界面](docs/previews/subtitles.png)（示例数据）
 
 ## 安装
 
@@ -16,7 +16,7 @@
 2. 只启用一份本工具。旧版“百度 / 123 / 光鸭 跨盘 JSON”使用不同脚本标识，升级后应停用旧版，避免重复拦截请求。
 3. 刷新网盘网页，打开右下角工具按钮。光鸭和 123 若尚未捕获登录状态，切换一次文件夹。
 
-为直接更新已有 v3 草稿，脚本保留原来的 `@name` 和 `@namespace`；以 `@version 3.2.8` 和工具面板版本为准。密钥在浏览器脚本设置中填写，不写入源码或仓库。
+为直接更新已有 v3 草稿，脚本保留原来的 `@name` 和 `@namespace`；以 `@version 3.2.9` 和工具面板版本为准。密钥在浏览器脚本设置中填写，不写入源码或仓库。
 
 ## 功能范围
 

diff --git a/CHANGELOG.md b/CHANGELOG.md
@@ -1,3 +1,8 @@
+# 3.2.9
+
+- 影视整理、字幕、JSON 的页面标题统一为同一层级；正文、说明、状态与操作文字保持一致的易读字号，主要操作按钮与辅助按钮使用相同的黑白灰样式。
+- 缩小 JSON 空白引导的图标与标题，避免大片编辑区和大标题压过其他功能；保持默认 1280×800 及常规页面不滚动。
+
 # 3.2.8
 
 - 正文与主要按钮放大至 16px，说明、状态及日志文字至少 14px，提高灰色文字对比度，优先使用微软雅黑。保持黑白灰主题与默认 1280×800 实际外框尺寸。

diff --git a/docs/VALIDATION.md b/docs/VALIDATION.md
@@ -1,4 +1,4 @@
-# 3.2.8 验证记录
+# 3.2.9 验证记录
 
 验证日期：2026-11-18（北京时间）。本地 Node.js v26.13.0。
 
